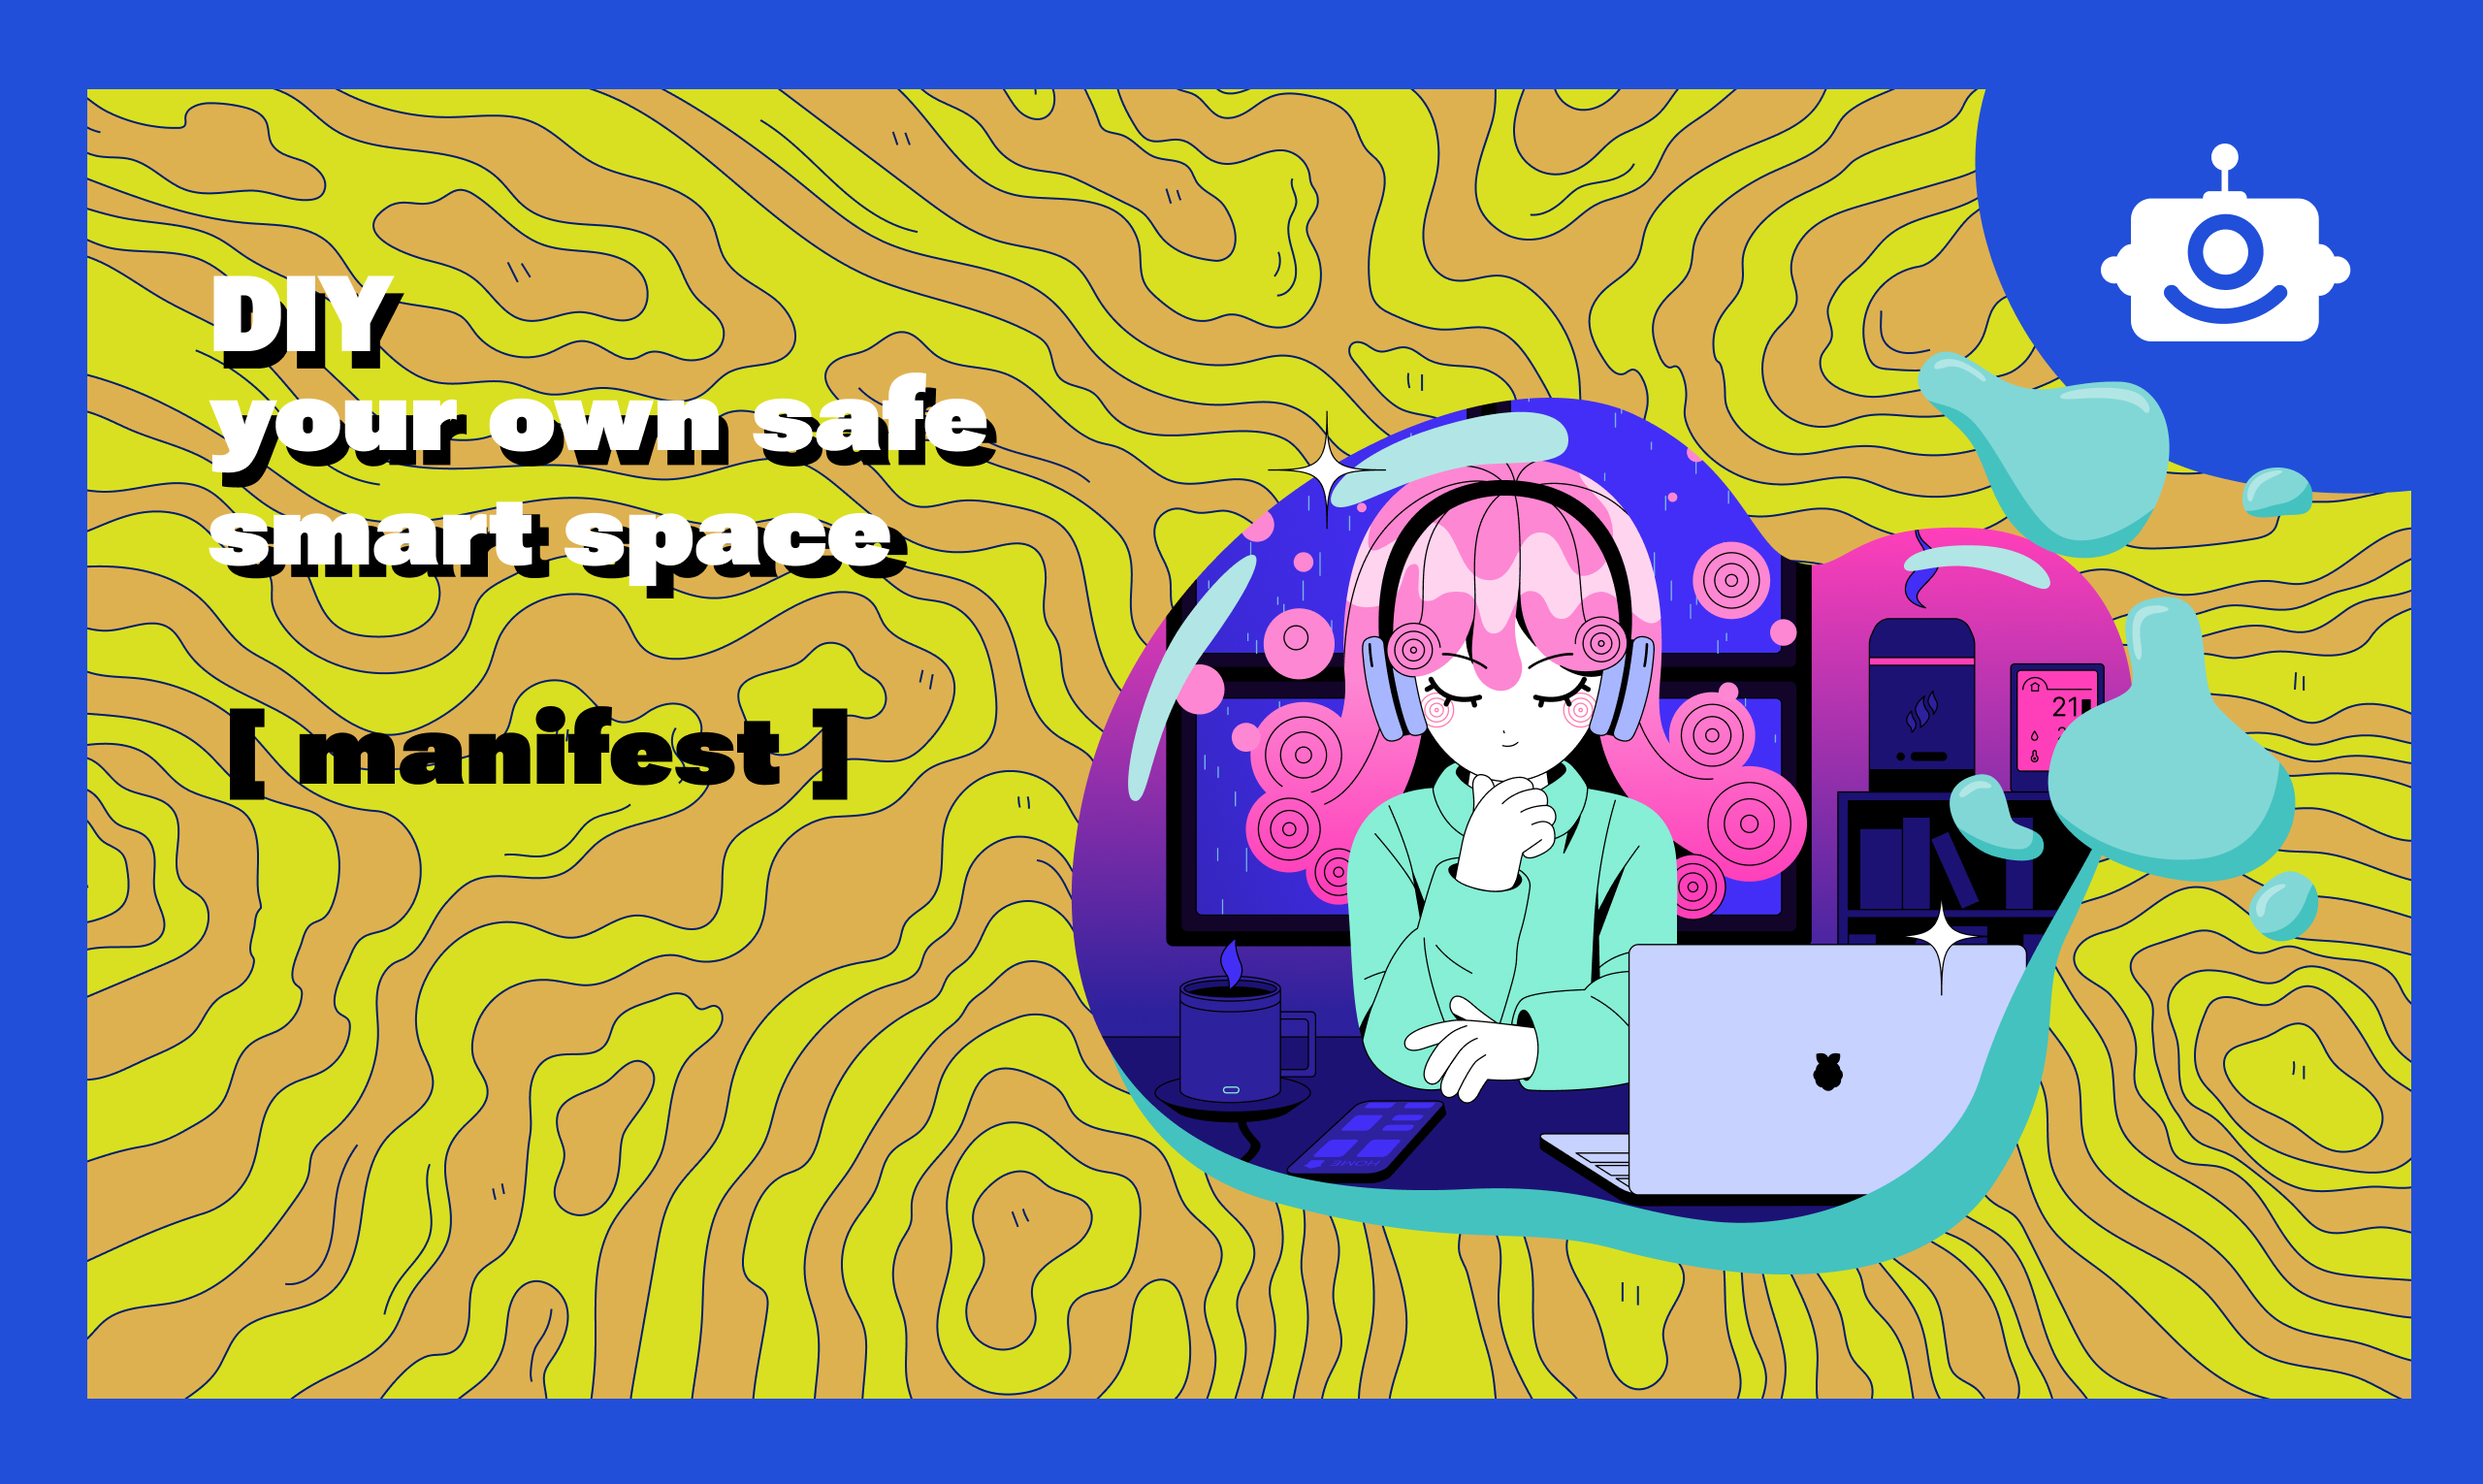
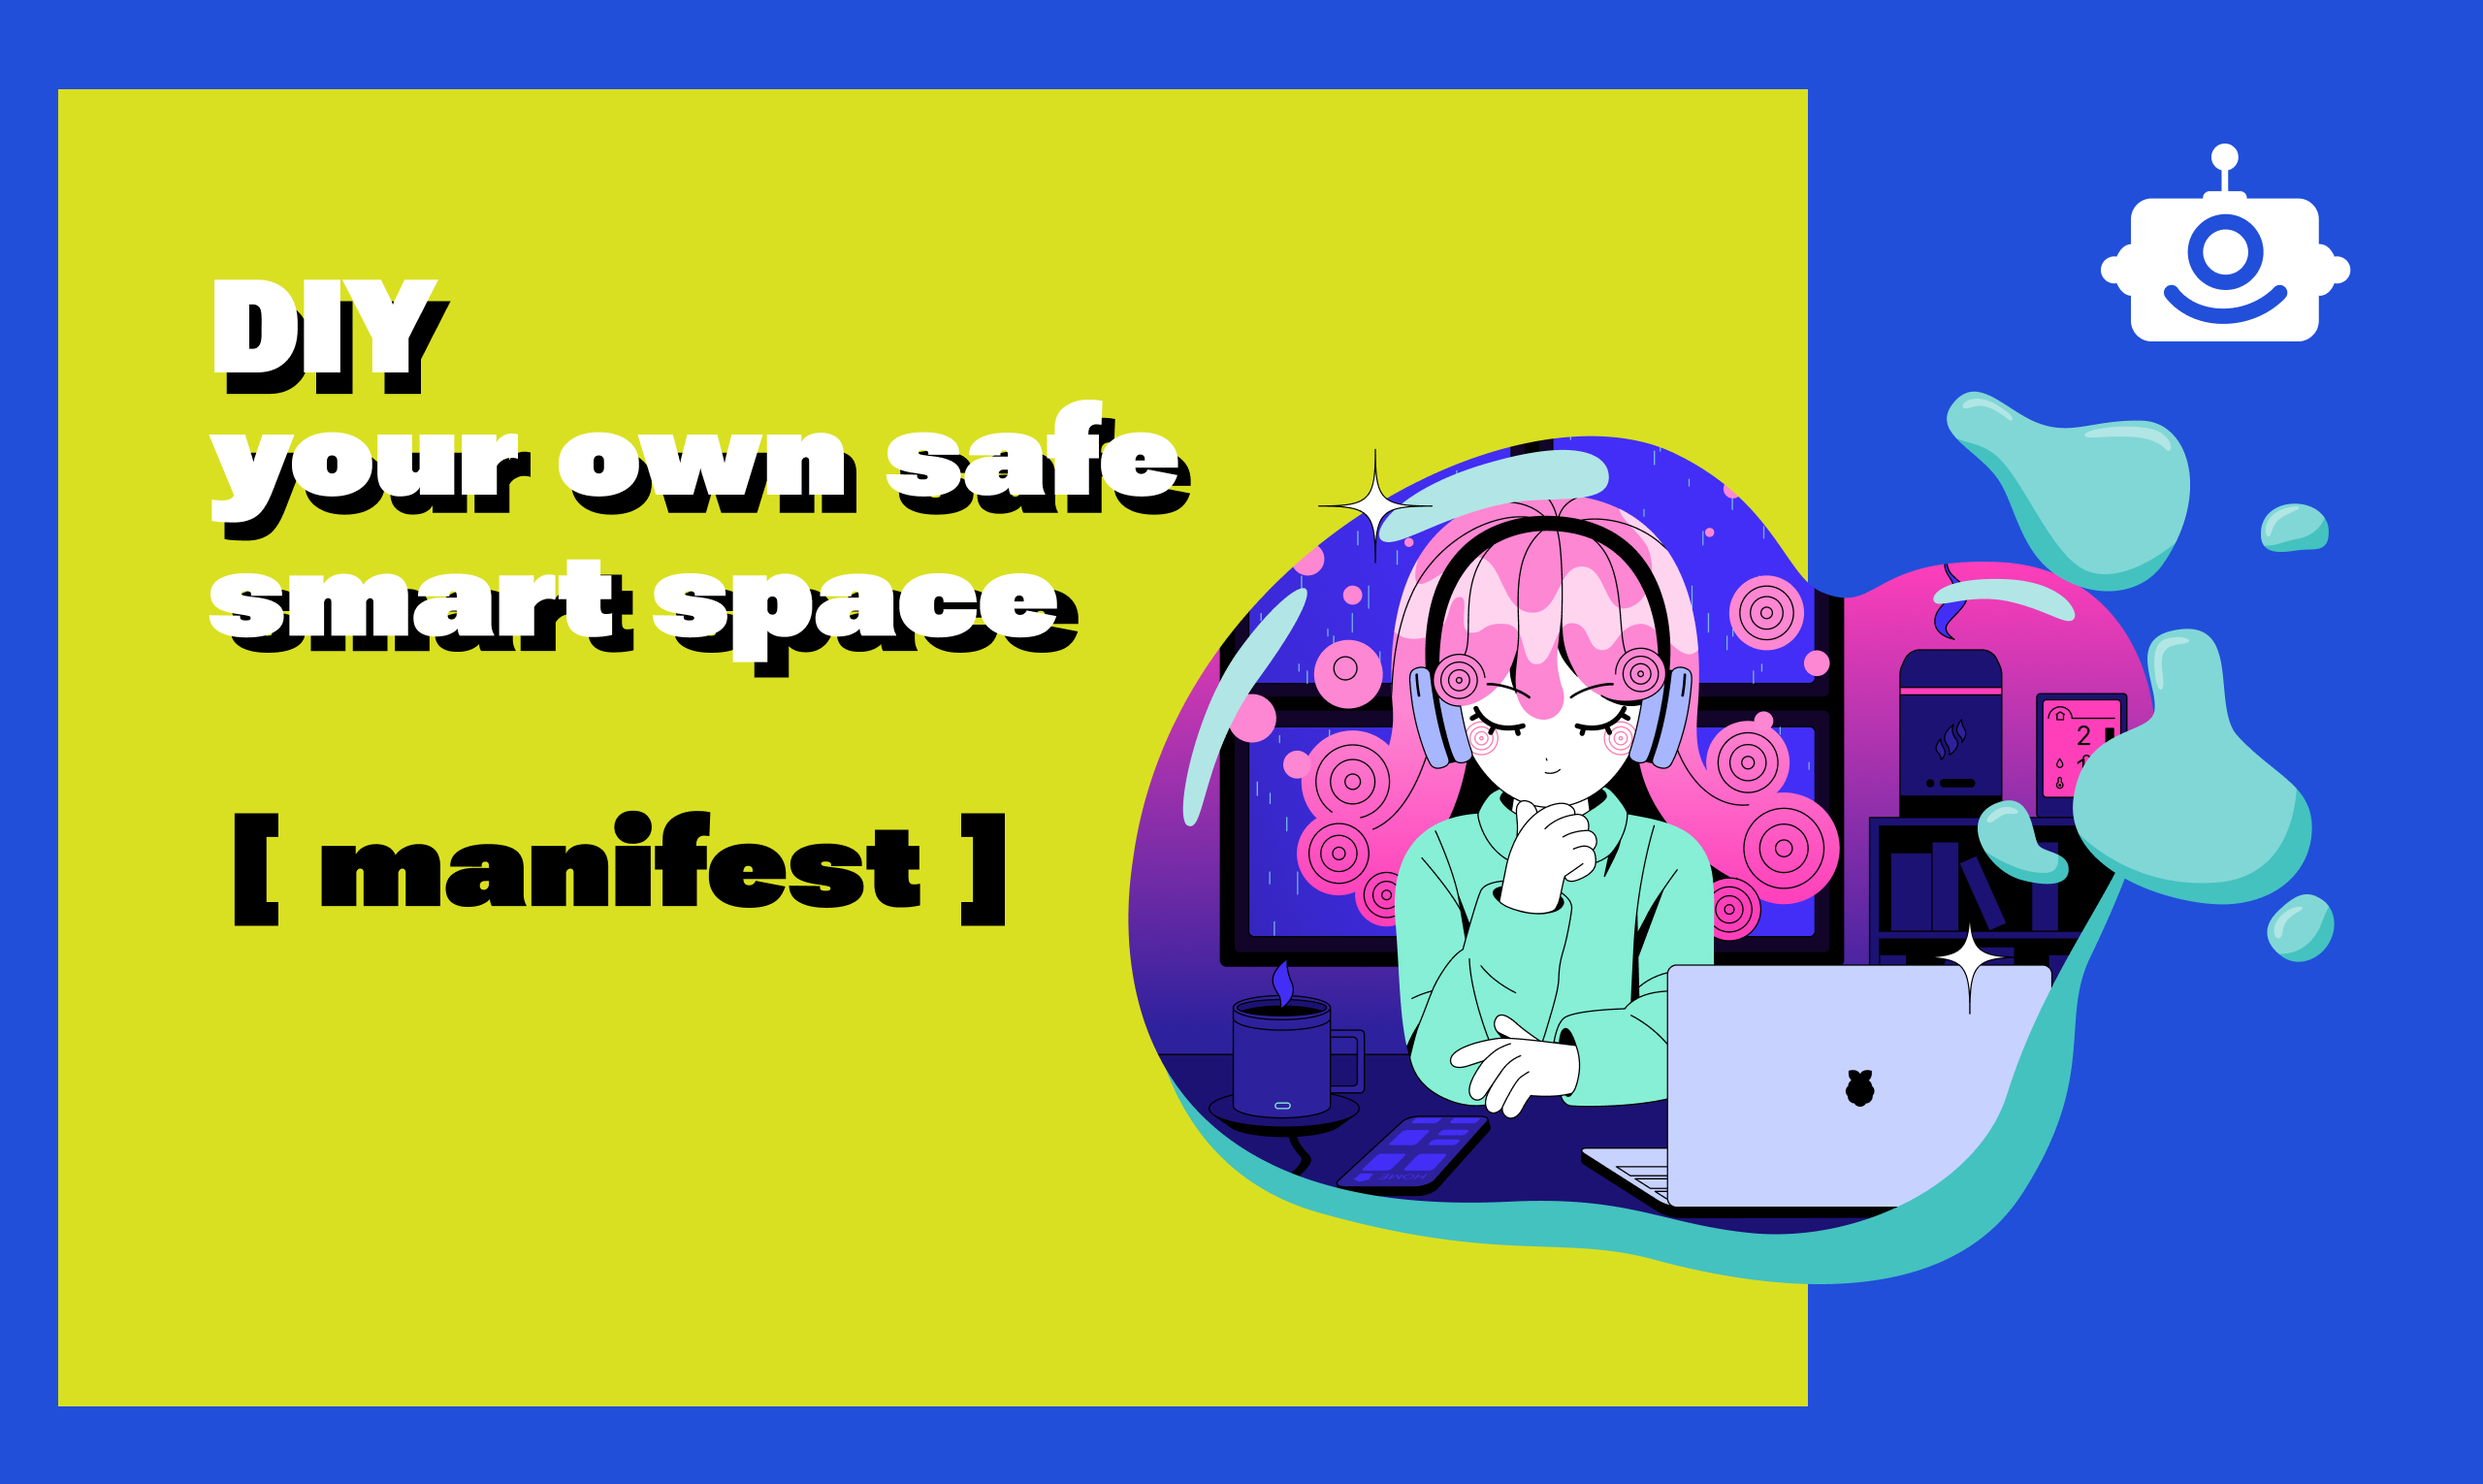
layout fixes

diff --git a/src/pages/its-gonna-get-worse.vue b/src/pages/its-gonna-get-worse.vue
@@ -25,7 +25,7 @@
 
         </div>
 
-        <g-image class="banner-with-pattern__img iggw__banner-img"  quality="75" aria-hidden="true" alt=""  src="~/assets/images/devices/devices-banner-decor-all.png"/>
+        <g-image class="banner-with-pattern__img iggw__banner-img" immediate  quality="75" aria-hidden="true" alt=""  src="~/assets/images/devices/devices-banner-decor-all.png"/>
       </div>
     </section>
 
@@ -36,7 +36,7 @@
           <h2 class="iggw__title">{{ $t('Why human?') }}</h2>
           <p class="iggw__text">{{ $t("Have you ever wondered why, in the process of evolution on Earth, the human species prevailed instead of, for example, fungi? Even now, it's challenging to provide a definitive answer to this question. The success of Homo sapiens is often attributed to successful cooperation, but then why not bees or ants? Our survival is also owed to a crucial characteristic—the autonomy of an individual within the population. In other words, the ability not to unquestionably submit to the queen bee. Ultimately, the group where each member has the right to be independent prevails.") }}</p>
         </div>
-        <g-image class="iggw__cesar-img"  quality="75" aria-hidden="true" alt=""  src="~/assets/images/iggw/cesar.png"/>
+        <g-image immediate class="iggw__cesar-img"  quality="75" aria-hidden="true" alt=""  src="~/assets/images/iggw/cesar.png"/>
       </div>
 
       <div class="iggw__free-will iggw__mb layout__text">
@@ -45,7 +45,7 @@
       </div>
 
       <div class="iggw__wide-img iggw__mb layout__mid">
-        <g-image class=""  quality="75" aria-hidden="true" alt=""  src="~/assets/images/iggw/upset-houses.png"/>
+        <g-image immediate class=""  quality="75" aria-hidden="true" alt=""  src="~/assets/images/iggw/upset-houses.png"/>
       </div>
 
 
@@ -57,7 +57,7 @@
       </div>
 
       <div class="iggw__wide-img iggw__mb layout__mid">
-        <g-image  quality="75" aria-hidden="true" alt=""  src="~/assets/images/iggw/happy-houses.png"/>
+        <g-image immediate  quality="75" aria-hidden="true" alt=""  src="~/assets/images/iggw/happy-houses.png"/>
       </div>
 
       <div class="iggw__plan iggw__mb layout__text">
@@ -67,7 +67,7 @@
 
       <div class="iggw__images layout__mid">
         <g-link target="_blank" to="/devices/">
-          <g-image class=""  quality="75" aria-hidden="true" alt=""  src="~/assets/images/iggw/all-devices.png"/>
+          <g-image immediate class=""  quality="75" aria-hidden="true" alt=""  src="~/assets/images/iggw/all-devices.png"/>
         </g-link>
       </div>
 
@@ -95,7 +95,6 @@ export default {
   .iggw__banner {
     min-height: 650px;
     margin-bottom: calc(var(--space) * 4);
-    background-image: url('../assets/images/iggw/iggw-banner-bg.jpg');
     background-color: #D9E021;
   }
 
@@ -103,8 +102,14 @@ export default {
     text-shadow: 7px 7px #111;
   }
 
+  .iggw__banner-layout {
+    position: relative;
+    max-width: 1400px;
+  }
+
   .iggw__banner-img{
     right: 30px;
+    top: 30px;
   }
 
   .iggw__banner-text {

diff --git a/src/pages/intro.vue b/src/pages/intro.vue
@@ -220,46 +220,11 @@
             <g-image quality="75" aria-hidden="true" alt="" src="~/assets/images/digitalTwins.png"/>
         </section>
       </section>
-      <hr class="no-margins"/>
-
-      <section class="section section__solid section__dotted_darkblue">
-        <div class="introMarketplace grid-2 layout layout__content">
-          <div class="img animate-inside" v-in-viewport.once>
-
-            <g-link class="marketplace animate-inside" v-in-viewport.once to="https://dapp.robonomics.network/#/services">
-              <div class="item">
-                <g-image quality="75" aria-hidden="true" alt="" src="~/assets/images/services-sensorsMap.png"/>
-                Global IoT sensors network
-              </div>
-
-              <div class="item">
-                <g-image quality="75" aria-hidden="true" alt="" src="~/assets/images/services-FujiWeather.png"/>
-                Get the weather on Fuji demo
-              </div>
-
-              <div class="item">
-                <g-image quality="75" aria-hidden="true" alt="" src="~/assets/images/services-dronePassport.png"/>
-                Drone passport registration
-              </div>
-            </g-link>
-
-            <g-link class="marketplace-add" to="https://dapp.robonomics.network/#/">+</g-link>
-
-            <g-image quality="75" aria-hidden="true" alt="" src="~/assets/images/person-manSitting.png"/>
-          </div>
-          <div class="hyphens animate-inside" v-in-viewport.once>
-            <h2>{{$t('App Store for Robotics - Robonomics Marketplace')}}</h2>
-            <p>{{$t('Companies that design and manufacture IoT-connected products and equipment should adopt a flexible digital twin delivery model to lower barriers to adoption, such as offering digital twins via marketplaces, rather than only offering digital twins via their own, proprietary, delivery model')}} <i>[{{$t('from Gartner research')}}]</i></p>
-            <p>{{$t('The developed digital twin model can be directly linked with additional services that your company provides for the IoT industry.')}}</p>
-            <p>{{$t('To make a delivery process convenient and simple for hundreds of customers, we have added a section of the services for robots marketplace. Take a look at the first examples of the implemented bundles of digital twin model + company automated service.')}}</p>
-            <p>{{$t("You've got an idea for your service for robots or users? Then proceed to the step-by-step instructions for building your IoT application on the Robonomics platform.")}}</p>
-          </div>
-        </div>
-      </section>
 
     </div>
 
   </layout>
+  
 </template>
 
 <style scoped>

diff --git a/src/pages/white-paper-2022.vue b/src/pages/white-paper-2022.vue
@@ -84,7 +84,6 @@
           <p class="hyphens wp-introduction__text">
            {{$t(`We have developed a techno-economic machine communication protocol running on top of Ethereum and IPFS, and complement it with elements of a cloud-based IoT platform based on the Polkadot parachain. Today, we already have a hybrid platform for creating futuristic IoT applications. It provides interaction with devices under the control of a global decentralized computer. Before we start creating secure, serverless and futuristic IoT applications using the Robonomics platform, let’s dive a little into theory...`)}}
           </p>
-          <strong>{{$t(`The first two chapters of the Robonomics white paper are already available to users.`)}}</strong>
         </div>
       </section>
 
